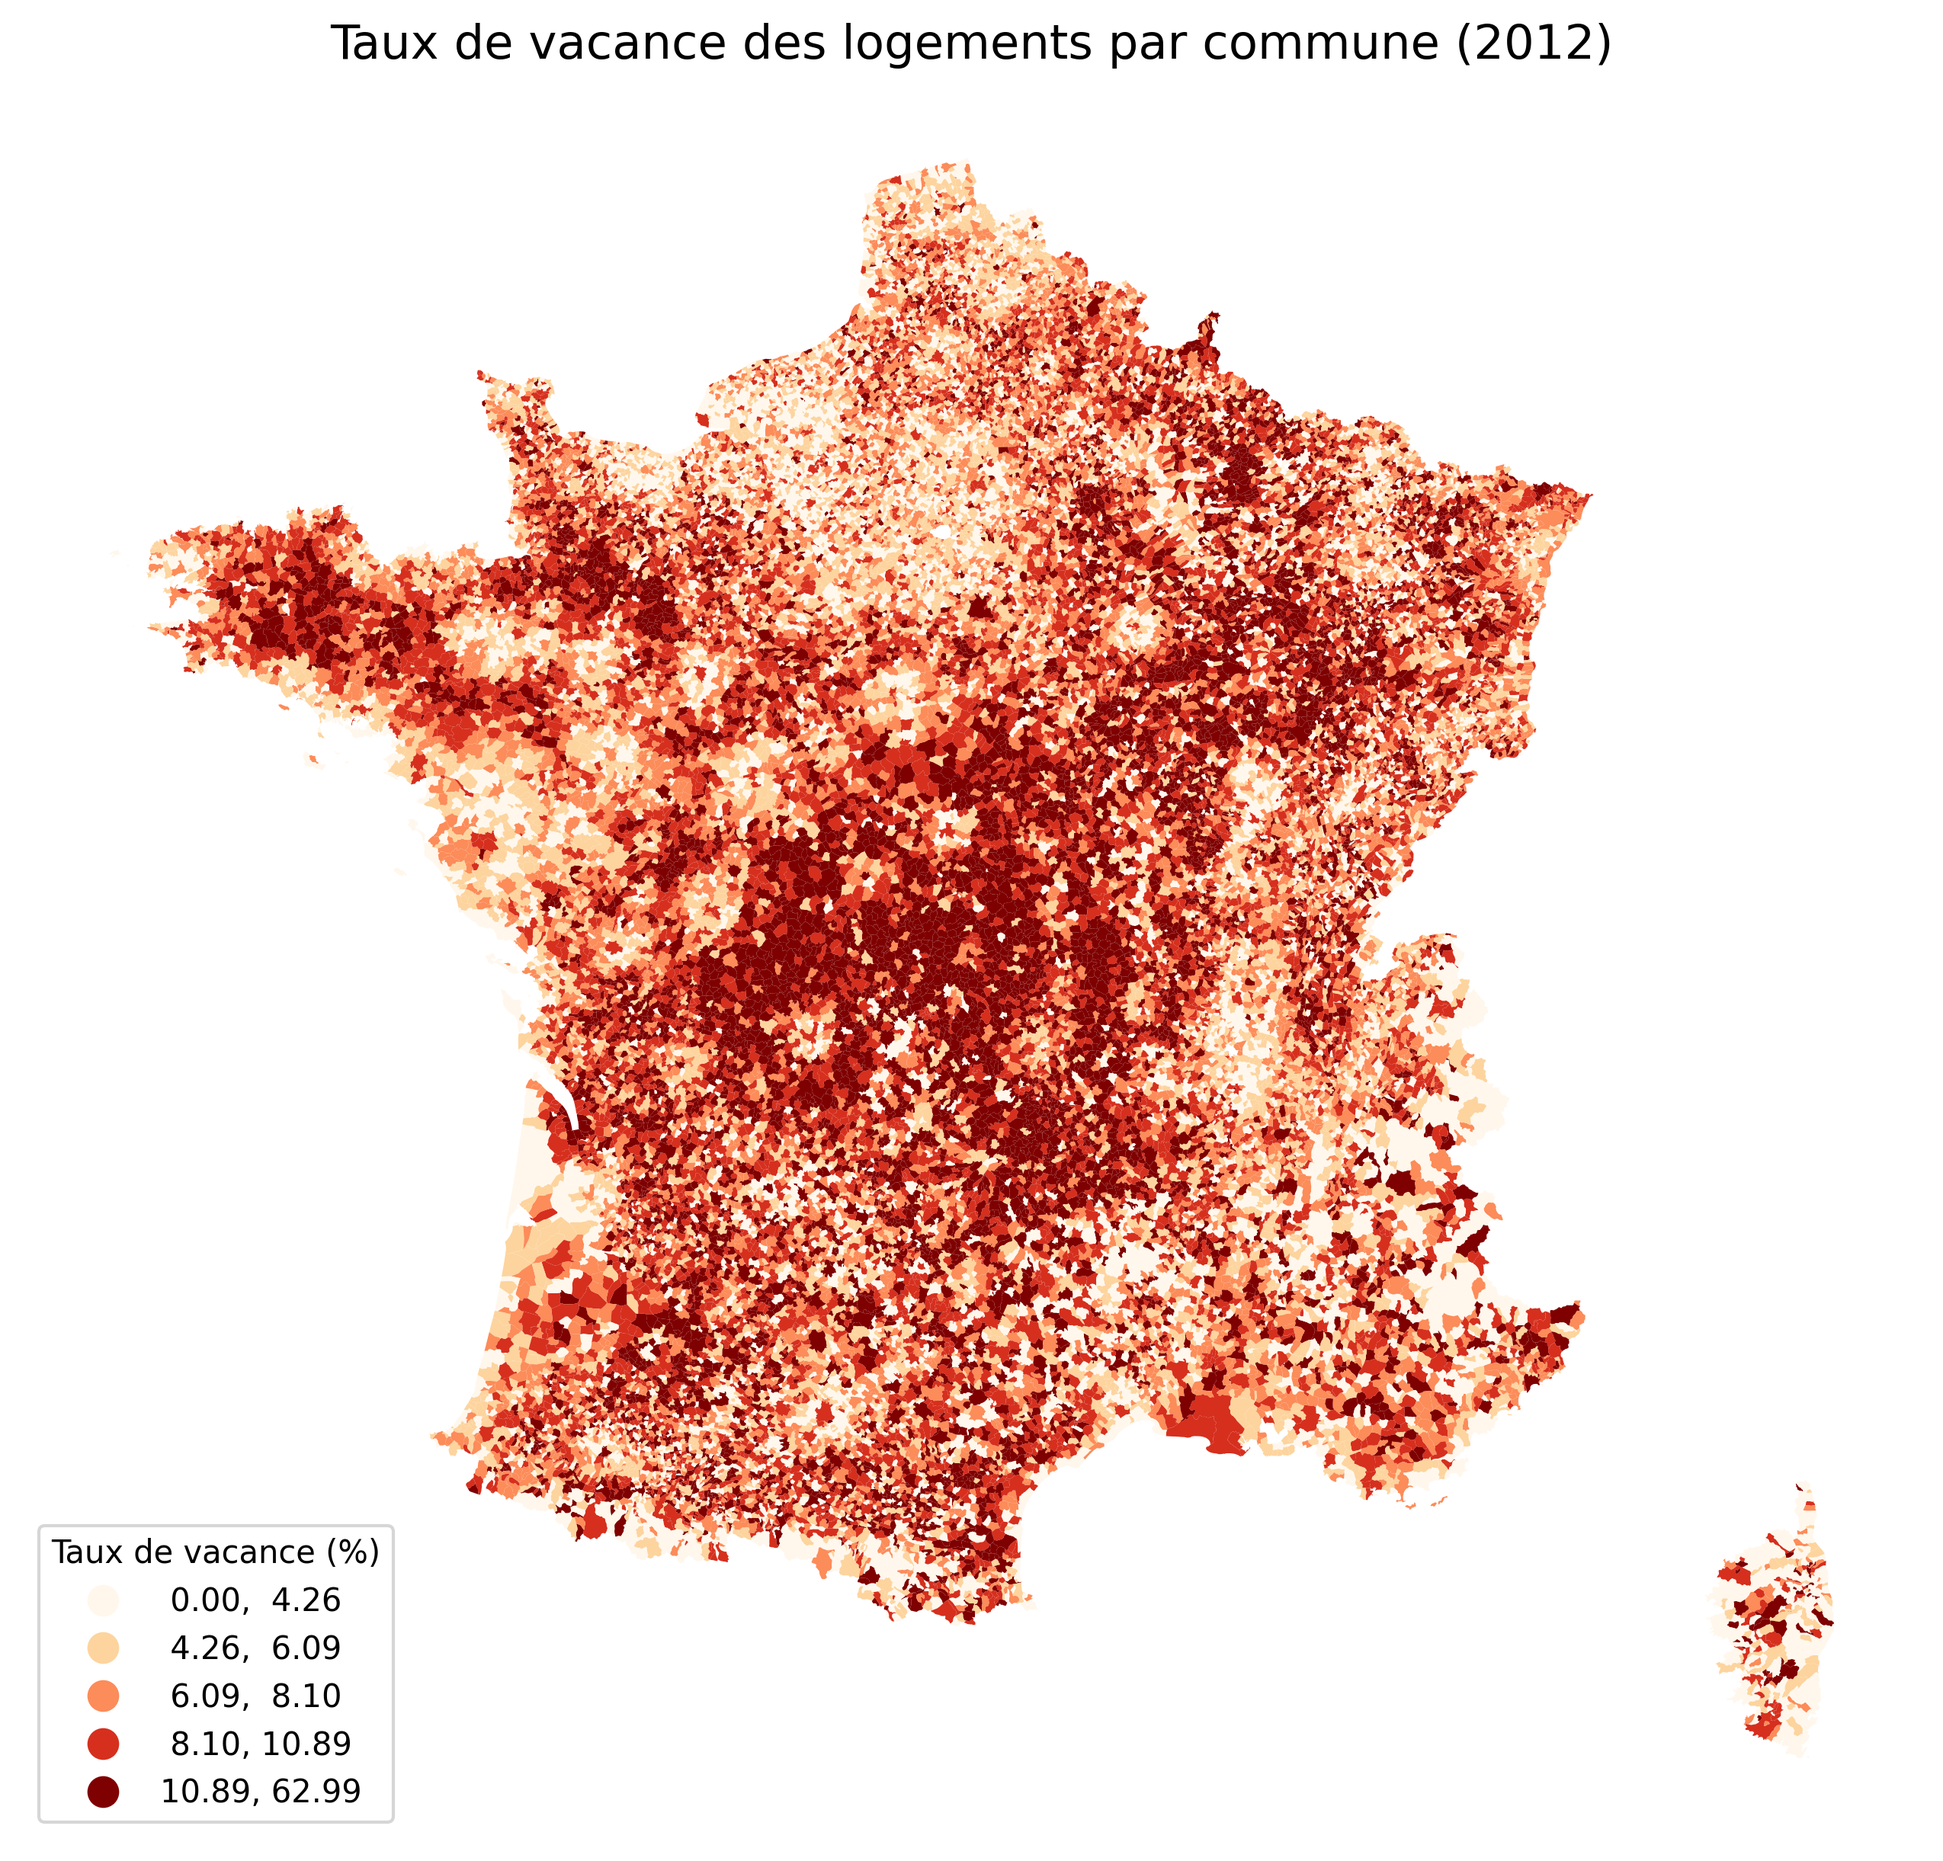
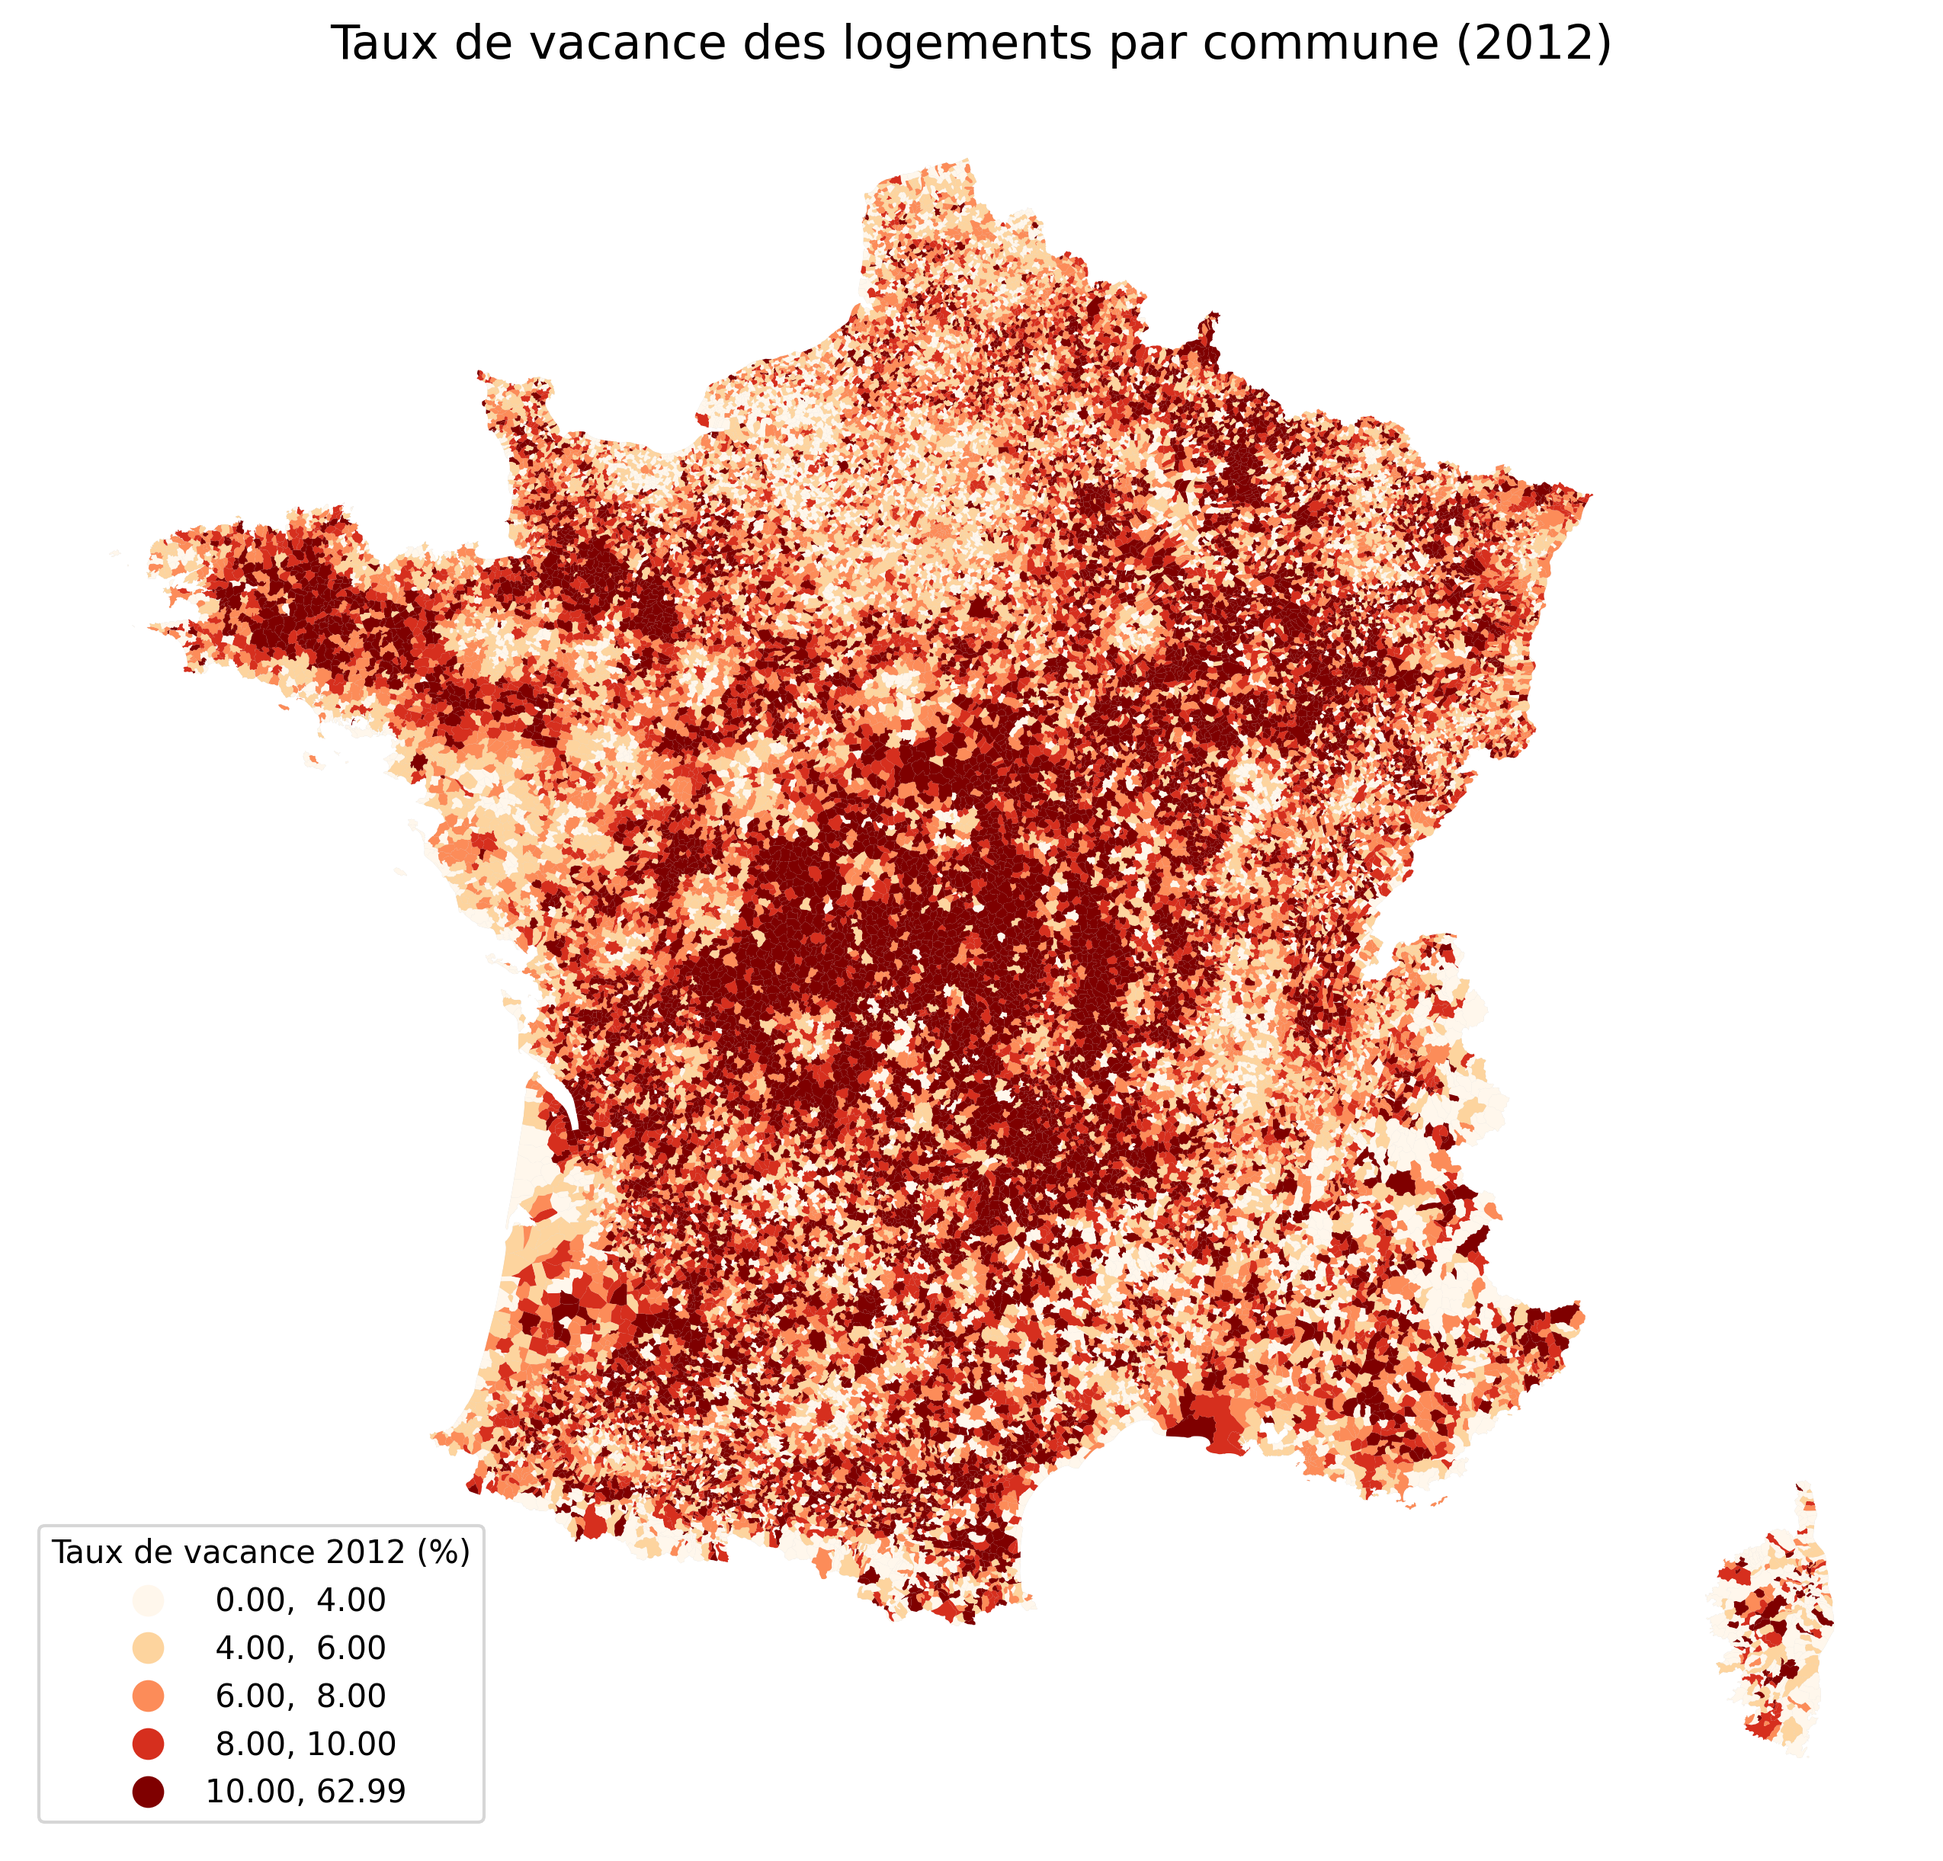
ajout du code

diff --git a/do/map2021.py b/do/map2021.py
@@ -11,82 +11,88 @@ DOSSIER_PROJET = os.path.dirname(CHEMIN_DO)
 DOSSIER_INPUT = os.path.join(DOSSIER_PROJET, 'input')
 DOSSIER_OUTPUT = os.path.join(DOSSIER_PROJET, 'output')
 
-# Recherche automatique du fichier Excel 2021
 fichiers_input = os.listdir(DOSSIER_INPUT)
 nom_excel_2021 = next((f for f in fichiers_input if '2021' in f and f.endswith('.xlsx')), None)
-chemin_carte = os.path.join(DOSSIER_INPUT, 'COMMUNE.SHP')
-
-if nom_excel_2021 is None:
-    print("ERREUR : Fichier Excel 2021 introuvable dans le dossier input.")
-    exit()
+nom_carte = "COMMUNE.SHP" 
 
 chemin_logement_2021 = os.path.join(DOSSIER_INPUT, nom_excel_2021)
+chemin_carte = os.path.join(DOSSIER_INPUT, nom_carte)
 
 # ==========================================
-# 2. LECTURE DU FICHIER EXCEL (Onglet COM)
+# 2. CHARGEMENT ET NETTOYAGE (Donnees)
 # ==========================================
-print(f"Lecture brute du fichier {nom_excel_2021}...")
+print("Chargement des donnees Insee 2021...")
+df_raw = pd.read_excel(chemin_logement_2021, sheet_name='COM', skiprows=10, engine='openpyxl')
 
-# header=None permet de tout lire sans chercher de titres
-df_raw = pd.read_excel(chemin_logement_2021, sheet_name='COM', header=None, engine='openpyxl')
+# Protection et nettoyage des codes communes
+col_codgeo = next((c for c in df_raw.columns if 'CODGEO' in str(c)), 'CODGEO')
+df_raw[col_codgeo] = df_raw[col_codgeo].astype(str).str.replace(r'\.0$', '', regex=True).str.strip().str.zfill(5)
 
-print("\n--- DIAGNOSTIC VISUEL ---")
-# On affiche les 15 premieres lignes et les 5 premieres colonnes
-print(df_raw.iloc[0:15, 0:5]) 
-print("-------------------------\n")
-exit()
+print("Calcul des totaux avec CATL4...")
+# 1. Isolation des colonnes
+colonnes_vacantes = [col for col in df_raw.columns if 'CATL4' in str(col)]
+colonnes_totales = [col for col in df_raw.columns if 'CATL' in str(col)]
 
-# ==========================================
-# 3. PIVOTAGE ET CALCUL
-# ==========================================
-print("Transformation des donnees...")
-# On transforme les lignes de categories (1, 2, 3) en colonnes
-df_2021 = df_raw.pivot_table(index='CODGEO', columns='CATL', values='NB', aggfunc='sum').reset_index()
-df_2021 = df_2021.rename(columns={1: 'RP', 2: 'RS', 3: 'VAC'})
+# 2. Conversion en nombres
+df_vac_num = df_raw[colonnes_vacantes].apply(pd.to_numeric, errors='coerce').fillna(0)
+df_tot_num = df_raw[colonnes_totales].apply(pd.to_numeric, errors='coerce').fillna(0)
+
+# 3. Initialisation du dataframe 2021
+df_2021 = pd.DataFrame()
+df_2021['CODGEO_STR'] = df_raw[col_codgeo]
+df_2021['VAC'] = df_vac_num.sum(axis=1)
+df_2021['TOTAL'] = df_tot_num.sum(axis=1)
+
+# On evite les divisions par zero
+df_2021 = df_2021[df_2021['TOTAL'] > 0].copy()
 
 # Calcul du taux de vacance
-df_2021['TOTAL'] = df_2021['RP'] + df_2021['RS'] + df_2021['VAC']
-df_2021 = df_2021[df_2021['TOTAL'] > 0] # Eviter les divisions par zero
-df_2021['taux_vacance_2021'] = (df_2021['VAC'] / df_2021['TOTAL']) * 100
+df_2021['taux_vacance'] = (df_2021['VAC'] / df_2021['TOTAL']) * 100
 
 # ==========================================
-# 4. FUSION ET CORRECTION DES TROUS
+# 3. CHARGEMENT DE LA CARTE ET FUSION
 # ==========================================
-print("Fusion avec le fond de carte...")
+print("Chargement de la carte et fusion...")
 carte = gpd.read_file(chemin_carte)
 
-df_2021['CODGEO_STR'] = df_2021['CODGEO'].astype(str).str.zfill(5)
-carte['INSEE_STR'] = carte['INSEE_COM'].astype(str).str.zfill(5)
+# Harmonisation des codes Insee (5 chiffres) et protection
+carte['INSEE_STR'] = carte['INSEE_COM'].astype(str).str.replace(r'\.0$', '', regex=True).str.strip().str.zfill(5)
 
-# Fusion qui garde la forme de toutes les communes (how='left')
+# La fusion (how='left' pour garder toutes les frontieres)
 carte_finale = carte.merge(df_2021, left_on='INSEE_STR', right_on='CODGEO_STR', how='left')
 
-# Remplissage des communes manquantes avec la moyenne nationale 2021
-moyenne_nationale = carte_finale['taux_vacance_2021'].mean()
-carte_finale['taux_vacance_rempli'] = carte_finale['taux_vacance_2021'].fillna(moyenne_nationale)
+# DIAGNOSTIC
+nb_match = carte_finale['taux_vacance'].notna().sum()
+print(f"\nSUCCESS ! Nombre de communes fusionnees : {nb_match}\n")
 
 # ==========================================
-# 5. DESSIN DE LA CARTE 2021
+# 4. DESSIN DE LA CARTE
 # ==========================================
-print("Generation de la carte 2021...")
-fig, ax = plt.subplots(1, 1, figsize=(12, 12))
+print("Generation de la carte thermique...")
+
+fig, ax = plt.subplots(1, 1, figsize=(12, 10))
 
 # Fond gris de secours
 carte.plot(ax=ax, color='#d9d9d9', edgecolor='none')
 
+# Couche de donnees avec tes paliers personnalises
 # Couche de donnees
-carte_finale.plot(column='taux_vacance_rempli', 
+carte_finale.plot(column='taux_vacance', # (ou 'taux_vacance' pour 2012)
                   ax=ax, 
                   cmap='OrRd', 
                   legend=True,
-                  legend_kwds={'title': "Taux de vacance 2021 (%)", 'loc': 'lower left', 'fmt': "{:.1f}"},
-                  scheme='NaturalBreaks', k=5)
+                  scheme='UserDefined', 
+                  classification_kwds={'bins': [5, 7, 9, 12]}, # Tes propres seuils !
+                  legend_kwds={'title': "Taux de vacance 2021 (%)", 'loc': 'lower left'},
+                  missing_kwds={'color': 'none'},
+                  edgecolor='none') # <--- LA SOLUTION EST ICI ! LE COUP DE GOMME !
 
-ax.set_title("Evolution : Taux de vacance des logements par commune (2021)", fontsize=16)
+ax.set_title("Taux de vacance des logements par commune (2021)", fontsize=15)
 ax.axis('off')
 
+# Sauvegarde
 chemin_image = os.path.join(DOSSIER_OUTPUT, '03_carte_vacance_2021.png')
 plt.savefig(chemin_image, dpi=300, bbox_inches='tight')
 
-print(f"Termine ! Carte sauvegardee dans : {chemin_image}")
+print(f"Termine ! La carte coloree est dans : {chemin_image}")
 plt.show()

diff --git a/do/projet.py b/do/projet.py
@@ -29,6 +29,9 @@ col_totaux = 'Logements en 2012 (princ)'
 df_2012[col_vacants] = pd.to_numeric(df_2012[col_vacants], errors='coerce')
 df_2012[col_totaux] = pd.to_numeric(df_2012[col_totaux], errors='coerce')
 
+# On evite les divisions par zero
+df_2012 = df_2012[df_2012[col_totaux] > 0].copy()
+
 # Calcul du taux de vacance
 df_2012['taux_vacance'] = (df_2012[col_vacants] / df_2012[col_totaux]) * 100
 
@@ -42,8 +45,12 @@ carte = gpd.read_file(chemin_carte)
 df_2012['CODGEO_STR'] = df_2012['Code géographique'].astype(str).str.zfill(5)
 carte['INSEE_STR'] = carte['INSEE_COM'].astype(str).str.zfill(5)
 
-# La fusion
-carte_finale = carte.merge(df_2012, left_on='INSEE_STR', right_on='CODGEO_STR')
+# La fusion (how='left' pour garder toutes les frontieres)
+carte_finale = carte.merge(df_2012, left_on='INSEE_STR', right_on='CODGEO_STR', how='left')
+
+# Remplissage des trous avec la moyenne de 2012
+moyenne_nationale = carte_finale['taux_vacance'].mean()
+carte_finale['taux_vacance_rempli'] = carte_finale['taux_vacance'].fillna(moyenne_nationale)
 
 # ==========================================
 # 4. DESSIN DE LA CARTE
@@ -52,14 +59,17 @@ print("Generation de la carte thermique...")
 
 fig, ax = plt.subplots(1, 1, figsize=(12, 10))
 
-# On dessine
-# On remplace label par title dans legend_kwds
-carte_finale.plot(column='taux_vacance', 
-            ax=ax, 
-            cmap='OrRd', 
-            legend=True,
-            legend_kwds={'title': "Taux de vacance (%)", 'loc': 'lower left'},
-            scheme='quantiles', k=5)
+# Fond gris de secours
+carte.plot(ax=ax, color='#d9d9d9', edgecolor='none')
+
+# Couche de donnees avec tes paliers personnalises
+carte_finale.plot(column='taux_vacance_rempli', 
+                  ax=ax, 
+                  cmap='OrRd', 
+                  legend=True,
+                  scheme='UserDefined', 
+                  classification_kwds={'bins': [4, 6, 8, 10]}, # Tes propres seuils !
+                  legend_kwds={'title': "Taux de vacance 2012 (%)", 'loc': 'lower left'})
 
 ax.set_title("Taux de vacance des logements par commune (2012)", fontsize=15)
 ax.axis('off')
